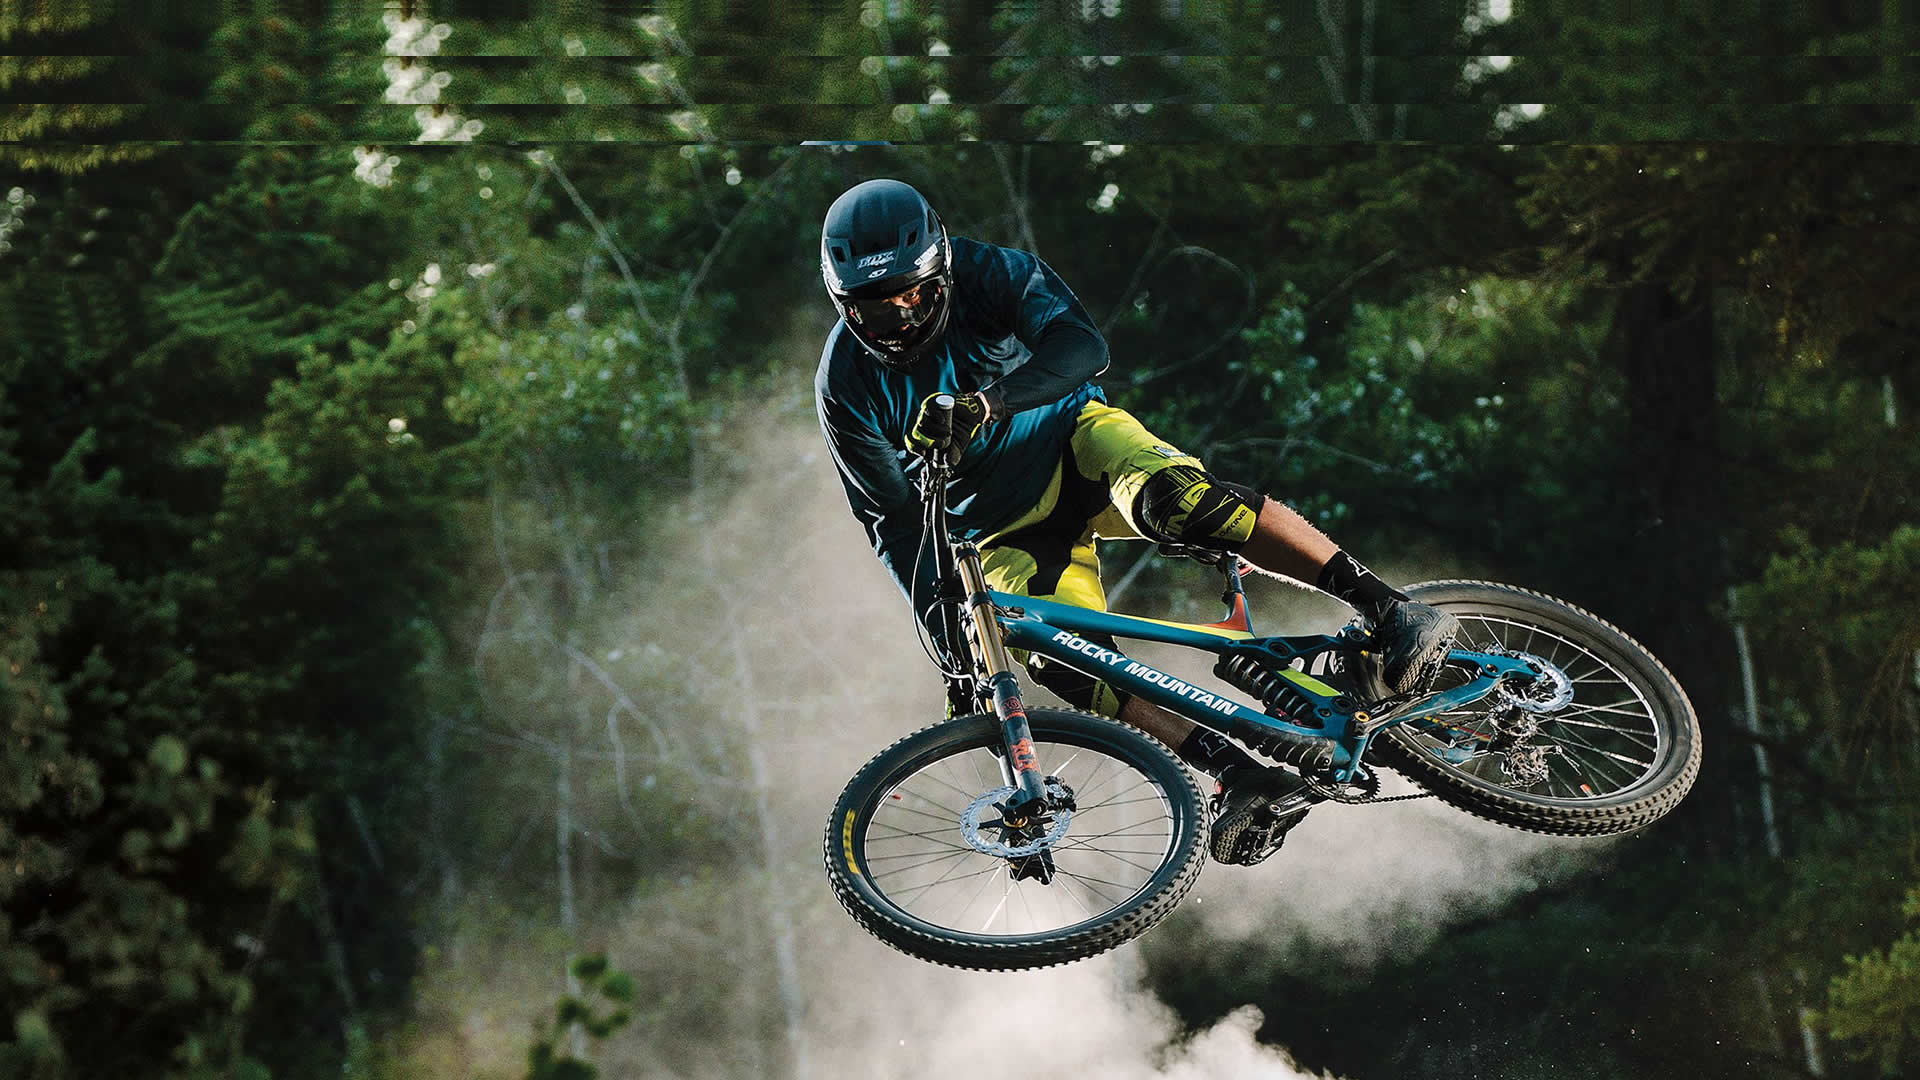
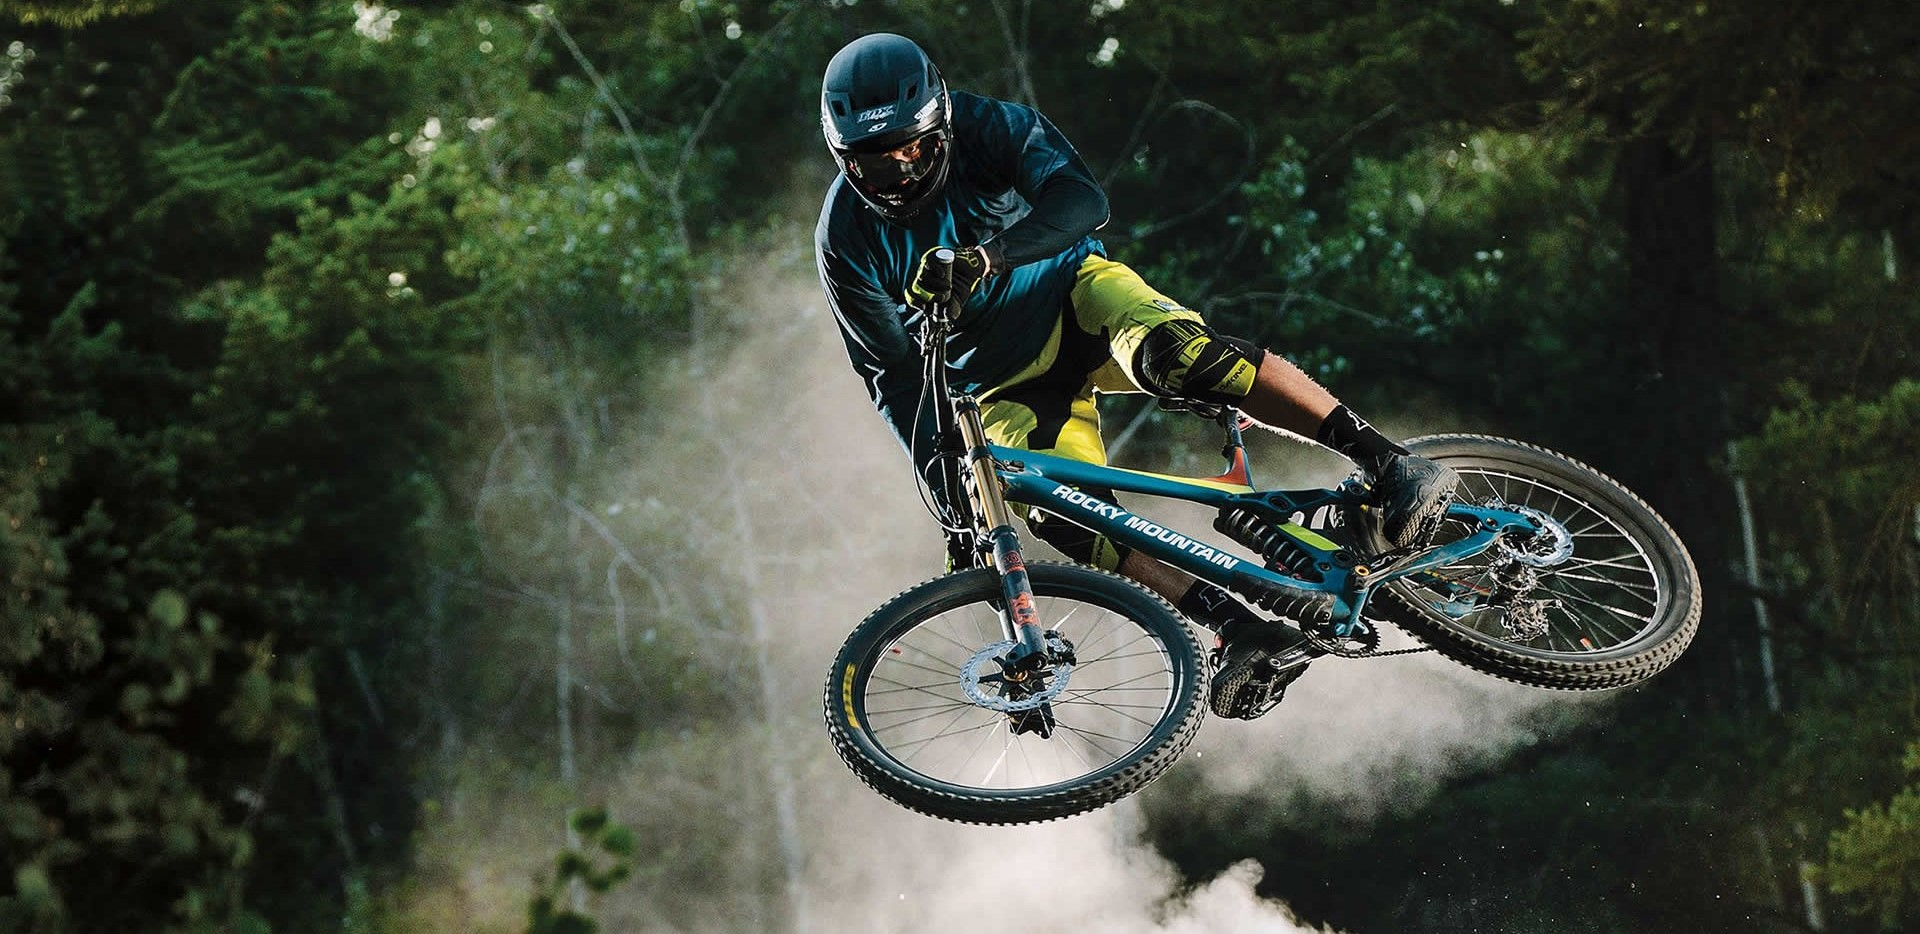
modifiche a carosello bootstrap

diff --git a/src/components/HeaderCarousel.vue b/src/components/HeaderCarousel.vue
@@ -1,19 +1,19 @@
 <template>
-    <div class="carousel slide">
+    <div id="carouselExample" class="carousel slide">
         <div class="carousel-inner">
-            <div class="carousel-itemactive">
-                <img src="../assets/img/event3.jpg" class="d-block w-100" alt="...">
+            <div class="carousel-item active">
+                <img src="../assets/img/slider-bike-9.jpg" class="d-block" alt="...">
                 <div class="event-info">
-                    <h1>professional Cycling Club</h1>
+                    <h1>Professional Cycling Club</h1>
                     <p>Learn cycling from the pros.</p>
                     <button class="btn btn-dark">Learn More <i class="fa-solid fa-arrow-right ms-1"></i></button>
                 </div>
             </div>
             <div class="carousel-item">
-                <img src="../assets/img/event2.jpg" class="d-block w-100" alt="...">
+                <img src="../assets/img/slider-bike-9.jpg" class="d-block" alt="...">
             </div>
             <div class="carousel-item">
-                <img src="../assets/img/event1.jpg" class="d-block w-100" alt="...">
+                <img src="../assets/img/slider-bike-9.jpg" class="d-block" alt="...">
             </div>
         </div>
         <button class="carousel-control-prev" type="button" data-bs-target="#carouselExample" data-bs-slide="prev">
@@ -21,8 +21,8 @@
             <span class="visually-hidden">Previous</span>
         </button>
         <button class="carousel-control-next" type="button" data-bs-target="#carouselExample" data-bs-slide="next">
-            <span class="carousel-control-next-icon" aria-hidden="true"></span>
-            <span class="visually-hidden">Next</span>
+            <span class="carousel-control" aria-hidden="true"></span><!-- 
+            <span class="visually-hidden">Next</span> -->
         </button>
     </div>
 </template>
@@ -32,7 +32,54 @@ export default {
 
 }
 </script>
+<style lang="scss">
+#carouselExample {
+    position: relative;
+    width: 100%;
+    height: 550px;
+    overflow: hidden;
 
-<style lang="">
-    
+    div.carousel-inner {
+        position: relative;
+
+        div.carousel-item {
+            img {
+                width: 100%;
+            }
+
+            div.event-info {
+                width: 220px;
+                position: absolute;
+                transform: translateY(-50%);
+                top: 50%;
+                left: 15%;
+                color: white;
+
+                h1 {
+                    font-weight: 700;
+                    font-size: 2.3rem;
+                }
+
+                p {
+                    font-weight: 600;
+                    font-size: 0.8rem;
+                }
+
+                button {
+                    font-size: 0.8rem;
+                    padding: 1rem 1.5rem 1rem 1.5rem;
+                    border-radius: 3px;
+                }
+            }
+
+        }
+    }
+
+    button.carousel-control-prev {
+        height: 550px;
+        position: absolute;
+        left: 0;
+
+    }
+}
 </style>

diff --git a/src/components/AppHeader.vue b/src/components/AppHeader.vue
@@ -22,10 +22,16 @@
             </div>
         </div>
     </nav>
+    <HeaderCarousel />
 </template>
 
 <script>
+import HeaderCarousel from './HeaderCarousel.vue';
+
 export default {
+    components: {
+        HeaderCarousel,
+    },
     data() {
         return {
 
